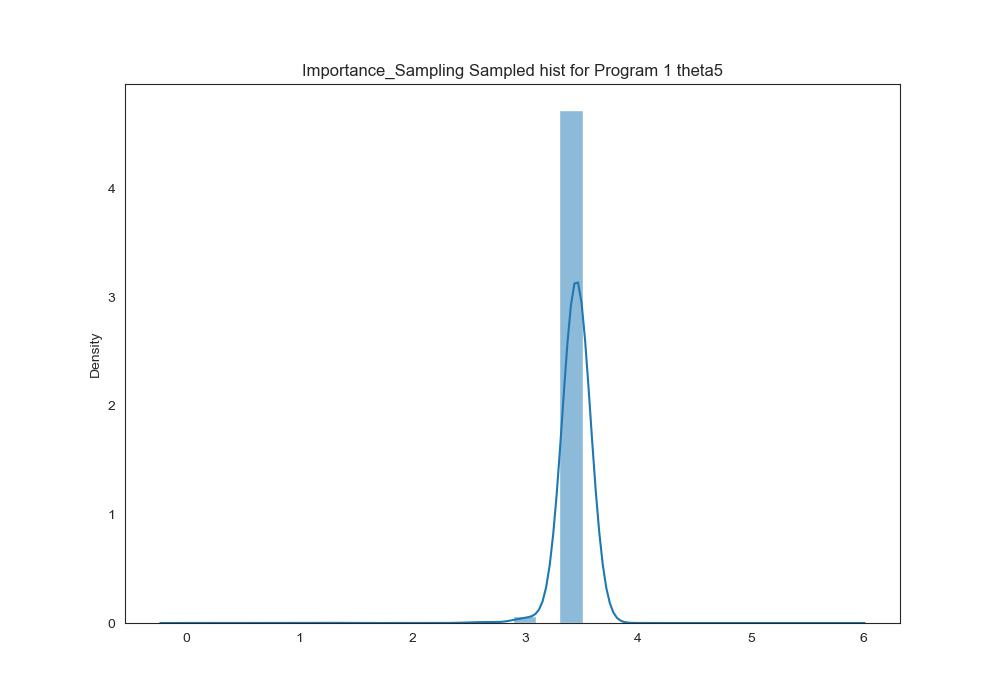
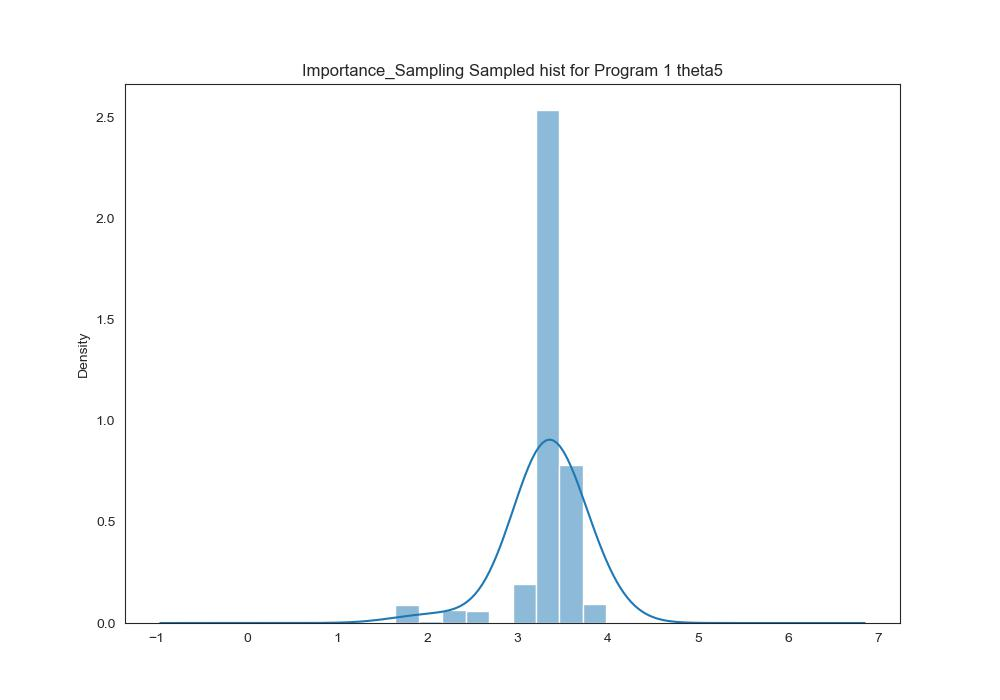
Add plots of IS

diff --git a/Project/IS/plotting_results.py b/Project/IS/plotting_results.py
@@ -1,0 +1,6 @@
+from newplot import draw_hists
+import torch
+
+thetas = torch.load('thetas.pt')
+weights = torch.load('weights.pt')
+draw_hists("Importance_Sampling", thetas, 1, weights=weights)
